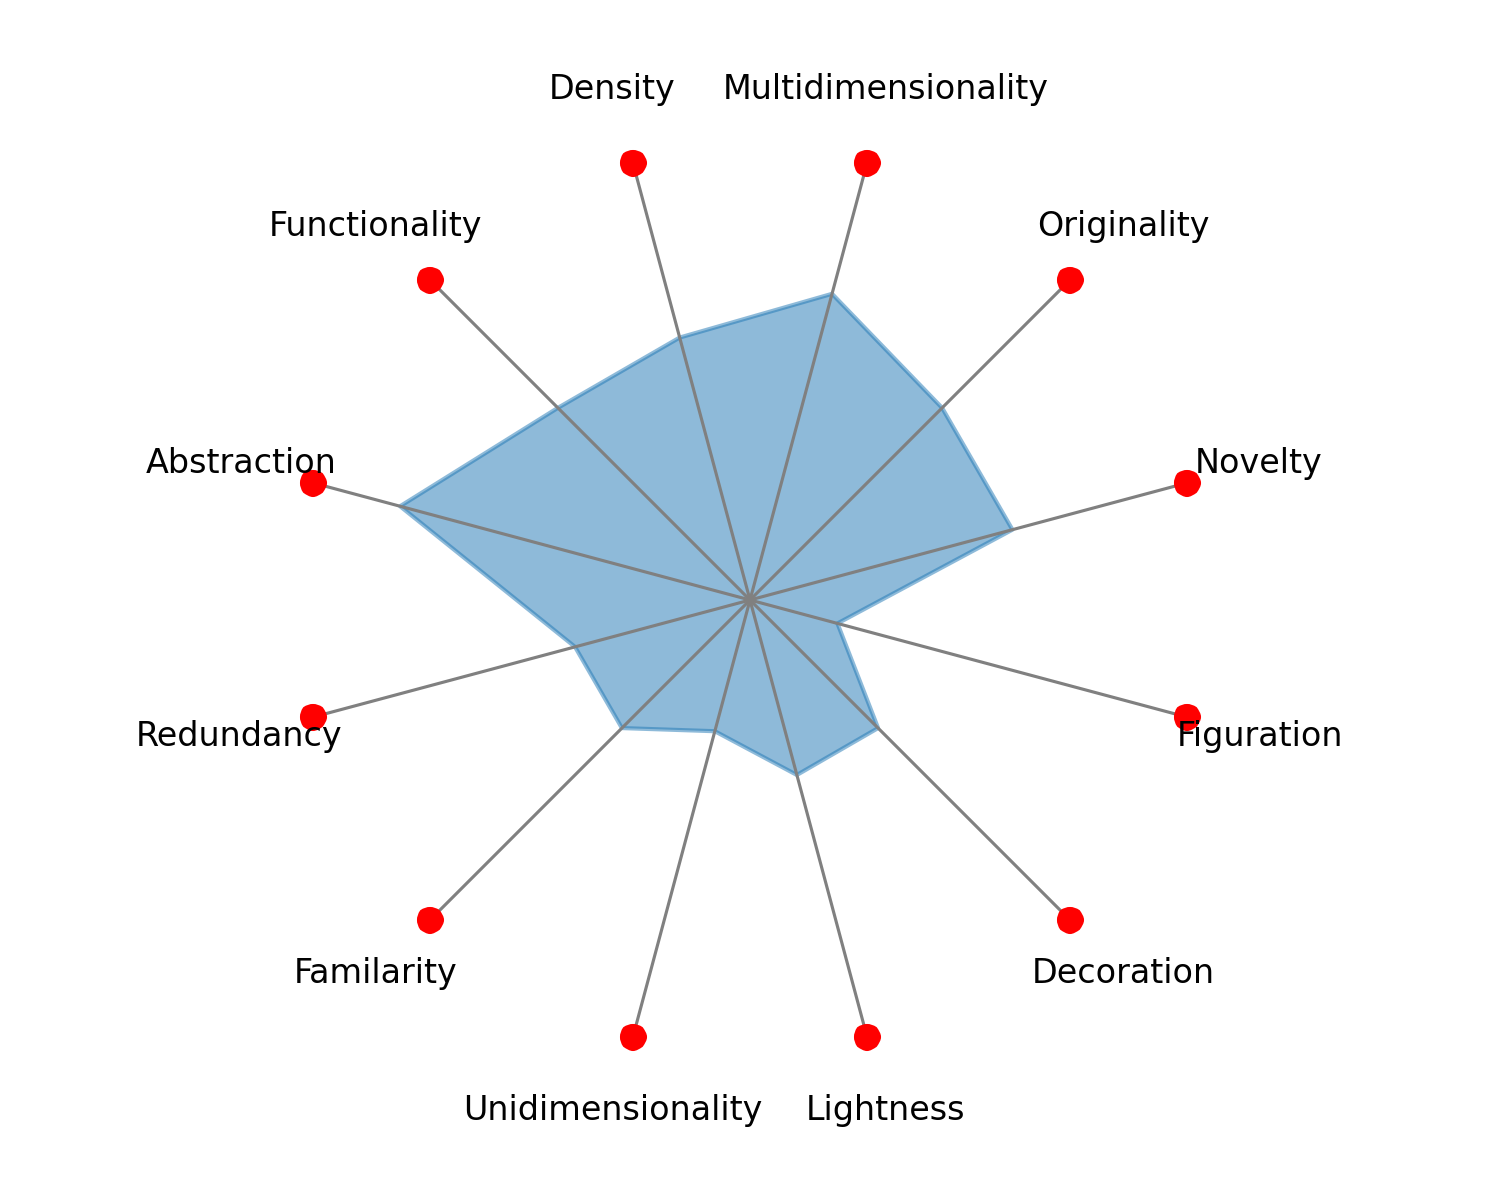
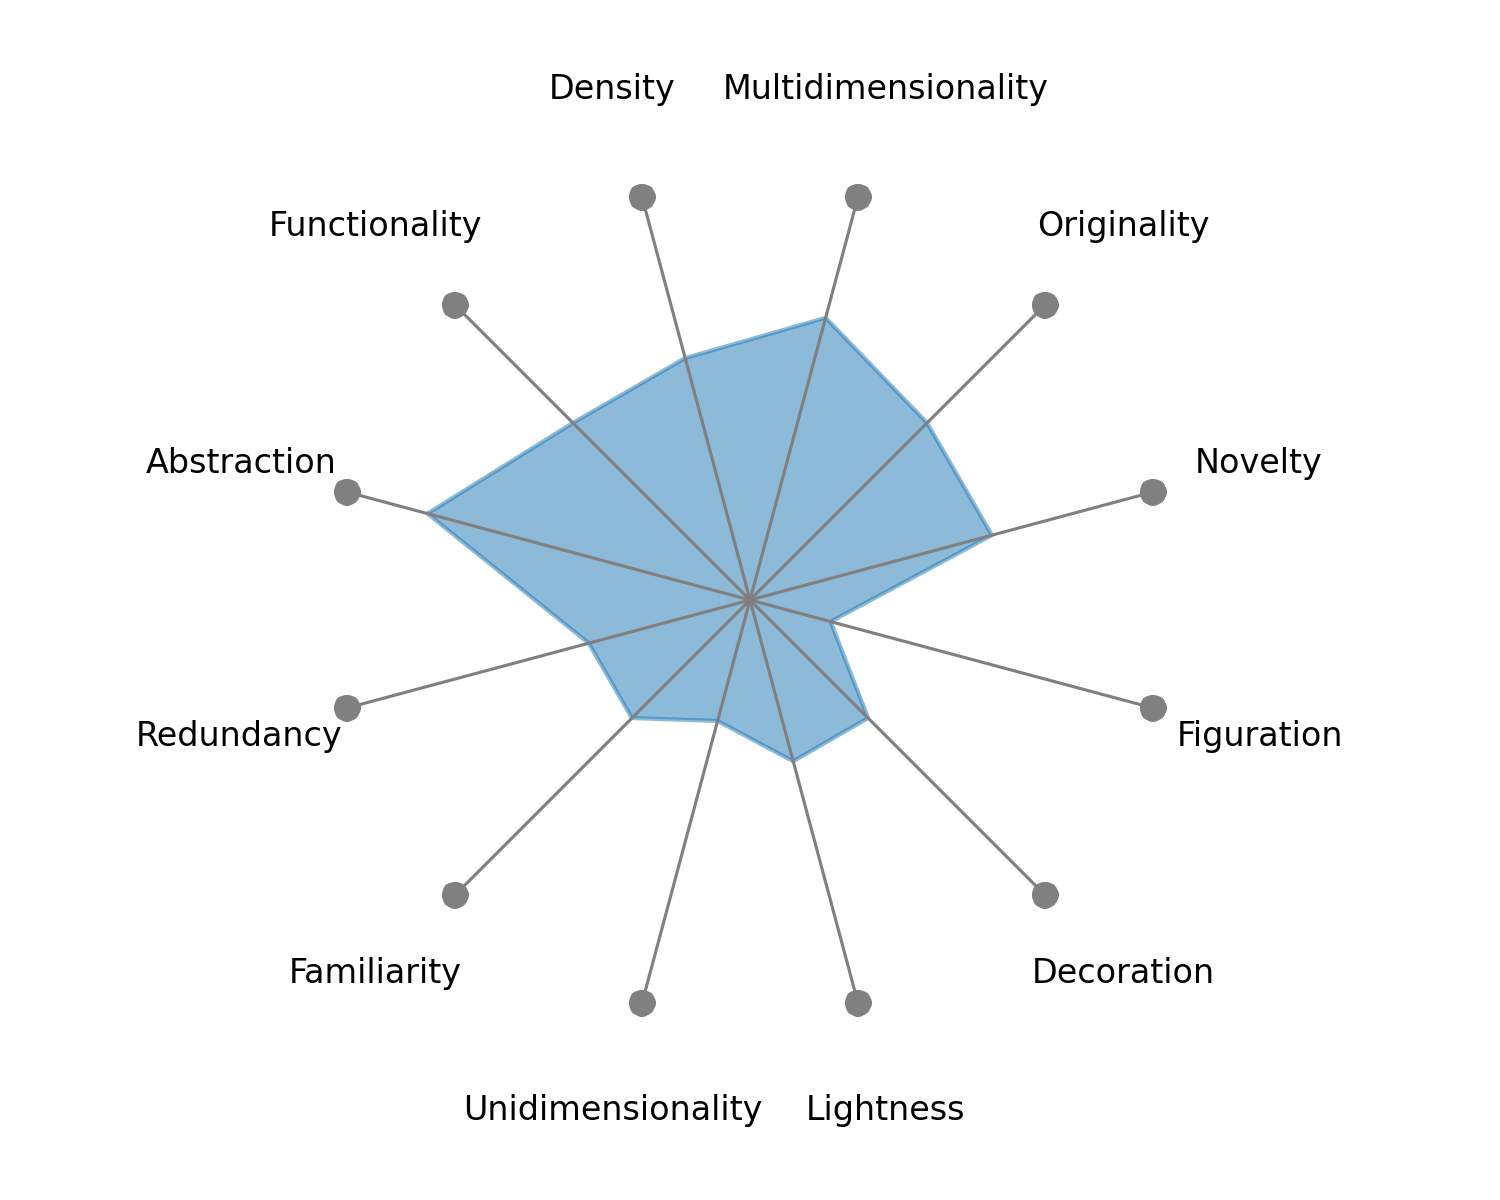
tweaks

diff --git a/src/cairo_visualization_wheel.py b/src/cairo_visualization_wheel.py
@@ -155,7 +155,6 @@ def DrawAxis(ax, args):
     ax: a matplotlib axis object
     args: an argparse arguments object
   """
-  ax.set_rmax(1.1)
   ax.grid(False)
   thetas = []
   angles = []
@@ -163,7 +162,7 @@ def DrawAxis(ax, args):
                   'Functionality', 'Decoration',
                   'Density', 'Lightness',
                   'Multidimensionality', 'Unidimensionality',
-                  'Originality', 'Familarity',
+                  'Originality', 'Familiarity',
                   'Novelty', 'Redundancy']
   for i in xrange(0, 6):
     offset_theta = numpy.pi / 12.0
@@ -182,9 +181,10 @@ def DrawAxis(ax, args):
         color='grey',
         linewidth=.75,
       ))
-  ax.plot(thetas, 12 * [1.0], markeredgecolor='red', marker='o',
-          markerfacecolor='red', linestyle='none')
+  ax.plot(thetas, 12 * [1.0], markeredgecolor='grey', marker='o',
+          markerfacecolor='grey', linestyle='none')
   # ax.set_title("Cairo Visualization Wheel", va='bottom')
+  ax.set_rmax(1.15)
   ax.set_yticklabels([])
   ax.set_thetagrids(angles, labels=angle_labels, fontsize=8.0)
 
